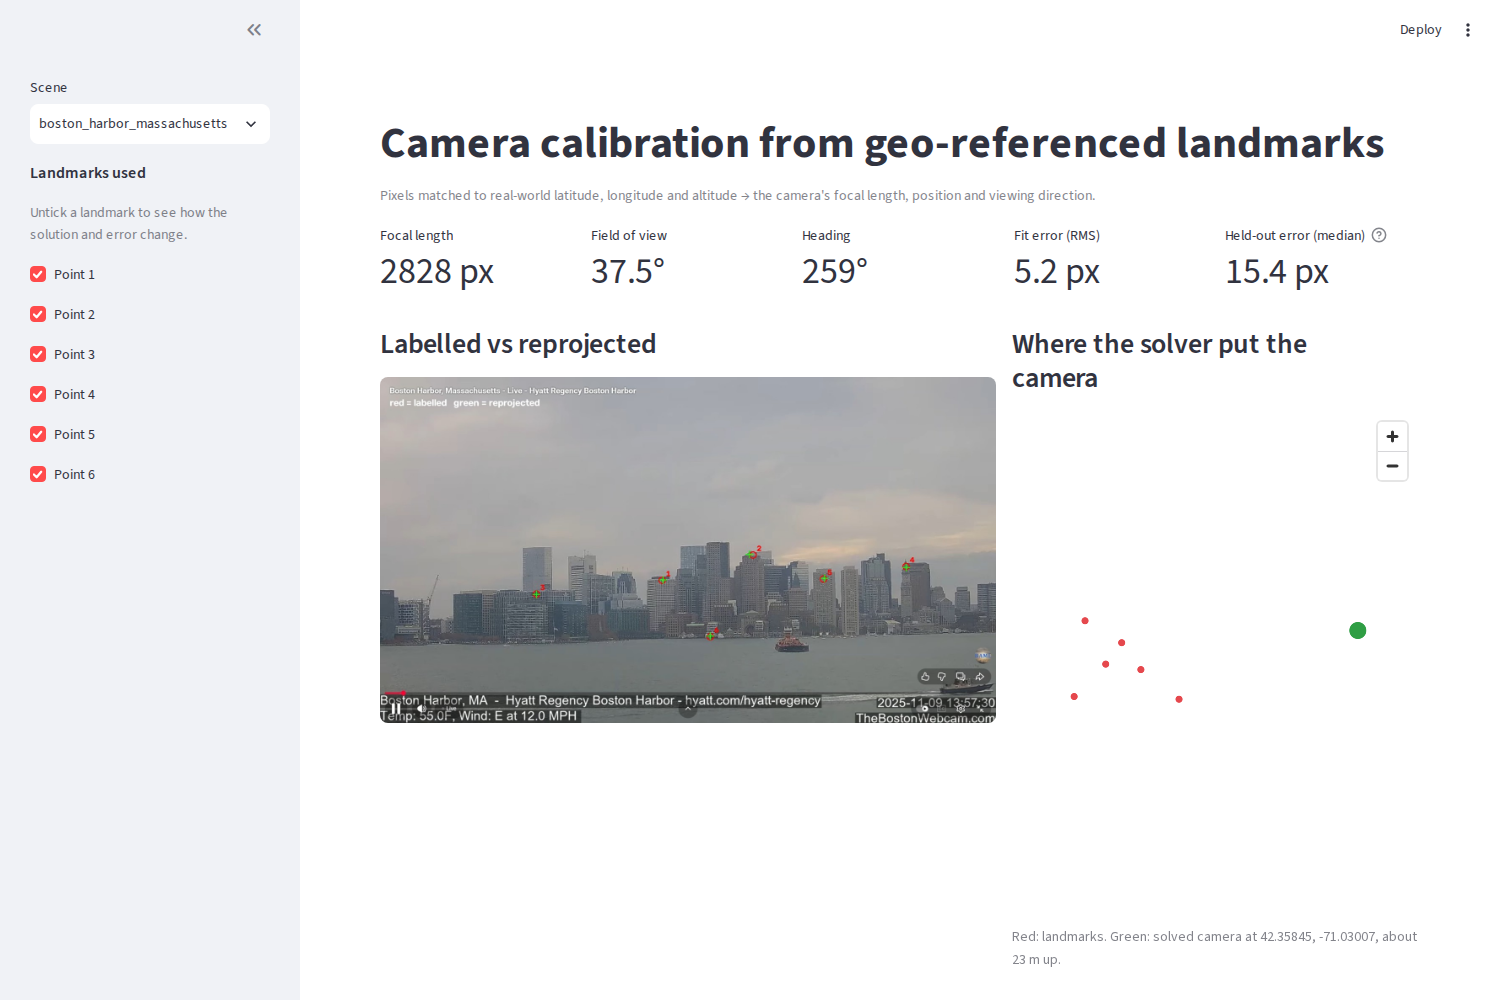
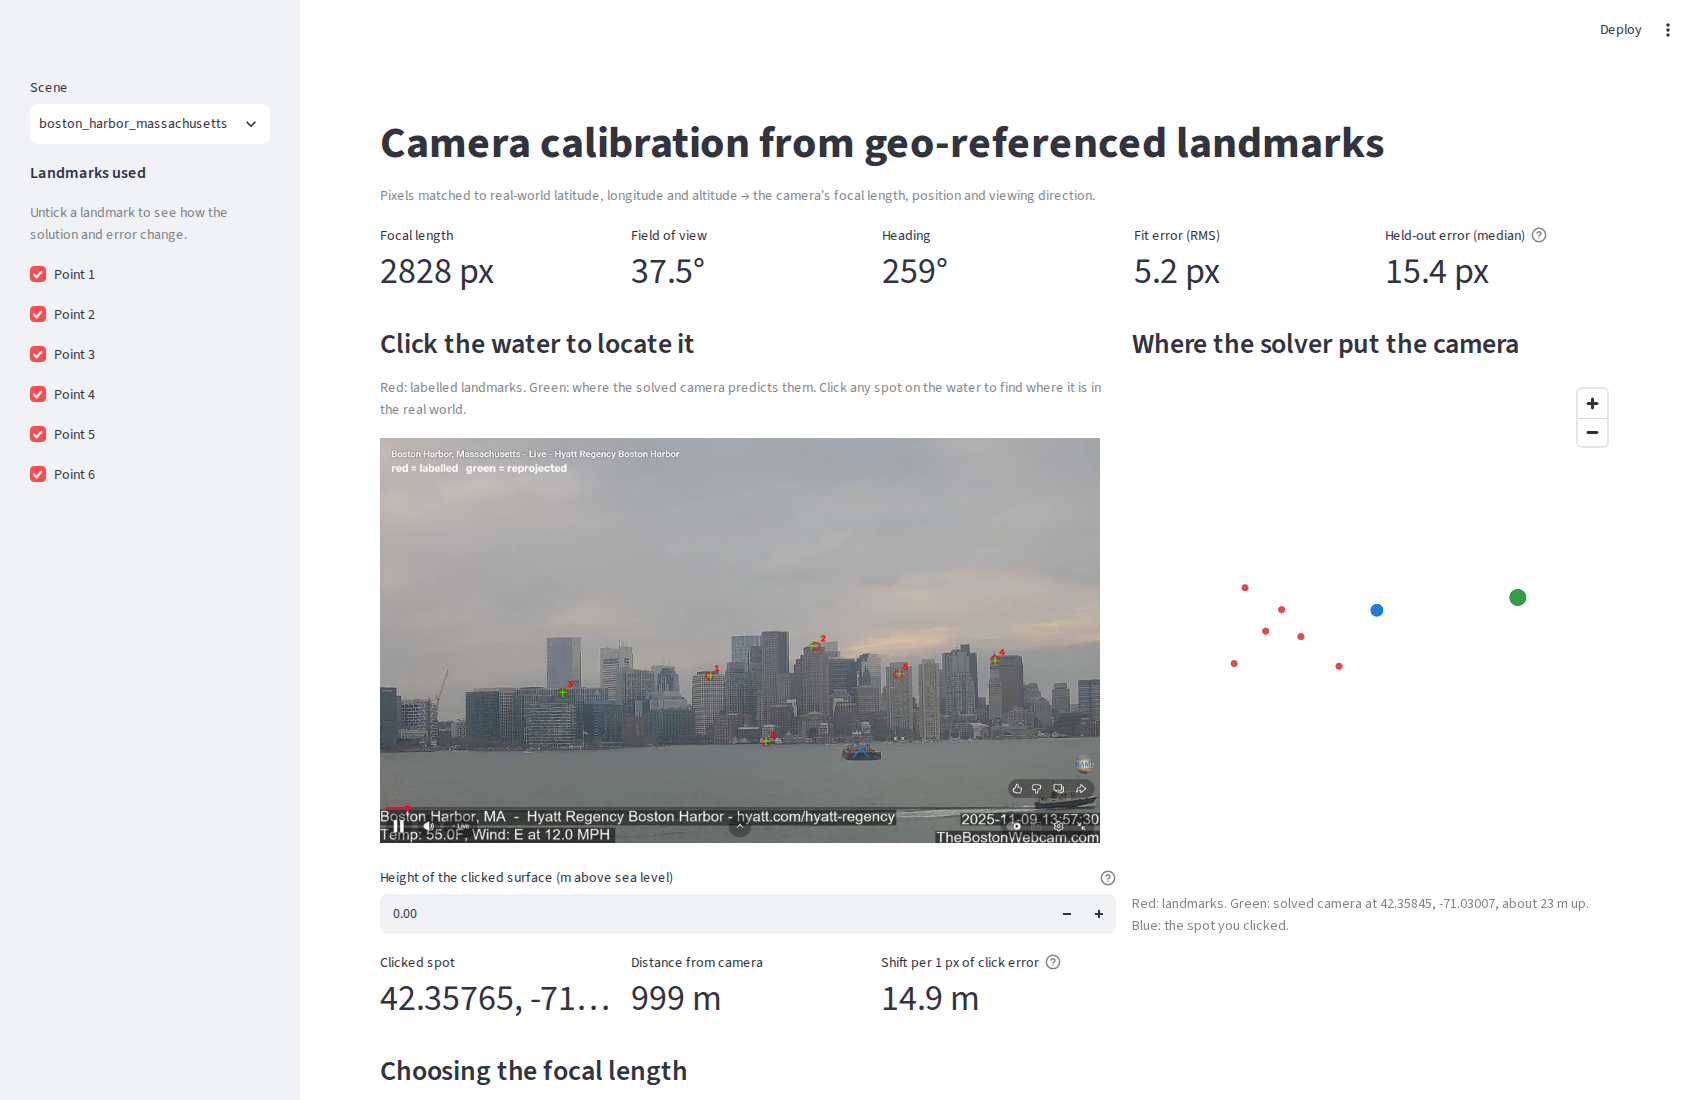
Add click-to-locate on the demo page
Clicking a spot on the water intersects that pixel's viewing ray with a
horizontal surface of known height, then shows the spot's lat/lng,
distance from the camera, and how far it moves per pixel of click error.

diff --git a/app.py b/app.py
@@ -7,8 +7,11 @@ import numpy as np
 import pandas as pd
 import streamlit as st
 
+from streamlit_image_coordinates import streamlit_image_coordinates
+
 from calibrate import (calibrate, camera_pose, geo_to_local, intrinsics, leave_one_out,
-                       load_matches, render_overlay, solve_pose, validate)
+                       load_matches, local_to_geo, pixel_to_ground, render_overlay,
+                       solve_pose, validate)
 
 ROOT = Path(__file__).parent
 
@@ -67,18 +70,57 @@ c[4].metric("Held-out error (median)", f"{np.median(valid):.1f} px" if valid els
 
 left, right = st.columns([3, 2])
 with left:
-    st.subheader("Labelled vs reprojected")
+    st.subheader("Click the water to locate it")
+    st.caption("Red: labelled landmarks. Green: where the solved camera predicts them. "
+               "Click any spot on the water to find where it is in the real world.")
     overlay = render_overlay(image, ids_u, pixels_u, best["projected"])
-    st.image(cv2.cvtColor(overlay, cv2.COLOR_BGR2RGB), use_container_width=True)
+    display_width = 720
+    last = st.session_state.get("click")
+    if last:
+        s = width / display_width
+        cv2.drawMarker(overlay, (int(last["x"] * s), int(last["y"] * s)), (214, 126, 28),
+                       cv2.MARKER_TILTED_CROSS, 40, 4)
+    click = streamlit_image_coordinates(cv2.cvtColor(overlay, cv2.COLOR_BGR2RGB),
+                                        width=display_width, key="click")
+    plane_up = st.number_input("Height of the clicked surface (m above sea level)",
+                               value=0.0, step=1.0,
+                               help="0 for the water. One photo only gives a direction per pixel; "
+                                    "knowing the surface height tells us how far along it to go.")
+
+clicked = None
+if click is not None:
+    scale = width / display_width
+    u, v = click["x"] * scale, click["y"] * scale
+    ground = pixel_to_ground(u, v, best, plane_up)
+    if ground is None:
+        left.warning("That pixel is above the horizon, so it never meets the surface.")
+    else:
+        cam_xyz = np.array(geo_to_local(np.array([[cam_lat, cam_lng, cam_alt]]), origin)[0])
+        lat, lng, _ = local_to_geo(ground, origin)
+        dist = float(np.linalg.norm(ground - cam_xyz))
+        # How far the answer moves if the click is off by one pixel vertically:
+        # small near the camera, large near the horizon.
+        nudged = pixel_to_ground(u, v + 1, best, plane_up)
+        per_px = float(np.linalg.norm(nudged[:2] - ground[:2])) if nudged is not None else float("nan")
+        clicked = (lat, lng)
+        m = left.columns(3)
+        m[0].metric("Clicked spot", f"{lat:.4f}, {lng:.4f}")
+        m[1].metric("Distance from camera", f"{dist:,.0f} m")
+        m[2].metric("Shift per 1 px of click error", f"{per_px:.1f} m",
+                    help="Pixels near the horizon cover much more ground, so small errors grow.")
+
 with right:
     st.subheader("Where the solver put the camera")
-    points = pd.DataFrame({"lat": list(geo_u[:, 0]) + [cam_lat],
-                           "lon": list(geo_u[:, 1]) + [cam_lng],
-                           "color": ["#e5484d"] * len(ids_u) + ["#2f9e44"],
-                           "size": [25] * len(ids_u) + [60]})
-    st.map(points, color="color", size="size")
+    lats = list(geo_u[:, 0]) + [cam_lat]
+    lons = list(geo_u[:, 1]) + [cam_lng]
+    colors = ["#e5484d"] * len(ids_u) + ["#2f9e44"]
+    sizes = [25] * len(ids_u) + [60]
+    if clicked:
+        lats.append(clicked[0]); lons.append(clicked[1]); colors.append("#1c7ed6"); sizes.append(45)
+    st.map(pd.DataFrame({"lat": lats, "lon": lons, "color": colors, "size": sizes}),
+           color="color", size="size")
     st.caption(f"Red: landmarks. Green: solved camera at {cam_lat:.5f}, {cam_lng:.5f}, "
-               f"about {cam_alt:.0f} m up.")
+               f"about {cam_alt:.0f} m up. Blue: the spot you clicked.")
 
 st.subheader("Choosing the focal length")
 st.caption("For each candidate field of view, solve the pose and measure the error. "

diff --git a/calibrate.py b/calibrate.py
@@ -139,6 +139,25 @@ def camera_pose(best, origin):
     return local_to_geo(cam_local, origin), heading
 
 
+def pixel_to_ground(u, v, best, plane_up=0.0):
+    """Where a pixel lands on a horizontal surface (e.g. water or a table).
+
+    One image gives only a direction per pixel, not a distance. Knowing the
+    surface's height pins down where along that direction the point is.
+    Returns local East-North-Up metres, or None if the pixel looks above
+    the horizon and never meets the surface.
+    """
+    R, _ = cv2.Rodrigues(best["rvec"])
+    center = (-R.T @ best["tvec"]).ravel()
+    ray = R.T @ np.linalg.inv(best["K"]) @ np.array([u, v, 1.0])
+    if abs(ray[2]) < 1e-9:
+        return None
+    s = (plane_up - center[2]) / ray[2]
+    if s <= 0:
+        return None
+    return center + s * ray
+
+
 def render_overlay(image, ids, pixels, projected):
     vis = image.copy()
     for i, (p, q) in enumerate(zip(pixels, projected)):

diff --git a/README.md b/README.md
@@ -48,6 +48,8 @@ streamlit run app.py
 
 Opens a browser page with the solved camera's numbers, the reprojection overlay, a map of the landmarks and the solved camera position, and the error-vs-field-of-view curve the solver minimises. Untick landmarks in the sidebar to see how the solution and the held-out error change.
 
+**Click to locate:** click any spot on the water and the page shows its latitude and longitude, its distance from the camera, and how far the answer moves per pixel of click error. One photo only gives a direction for each pixel; knowing the surface height (0 m for the water) fixes how far along that direction the point is. A robot does the same thing to turn a pixel into a place to reach, using the known height of its table. Near the horizon one pixel covers many metres, which is why robot cameras usually look down at the work area.
+
 ## Known limitations
 
 - Six points is the bare minimum; 12+ spread across the frame would tighten the result.
